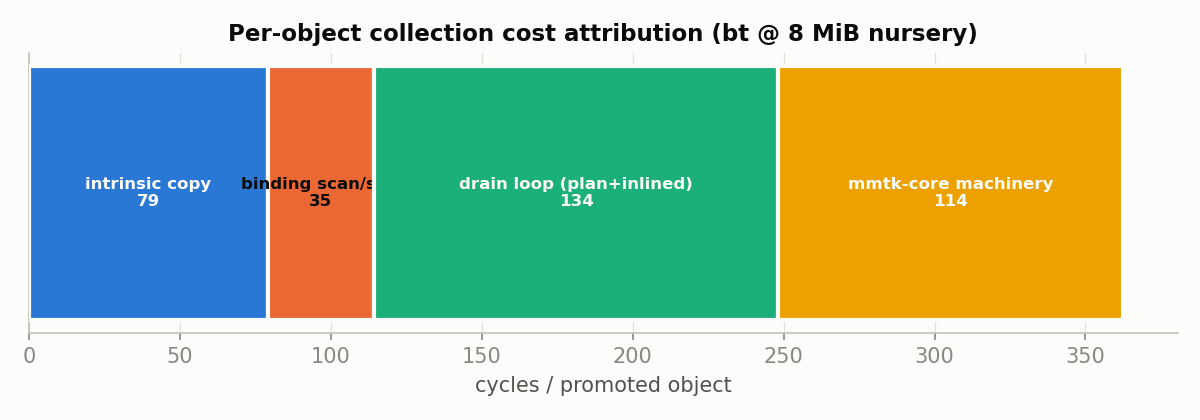
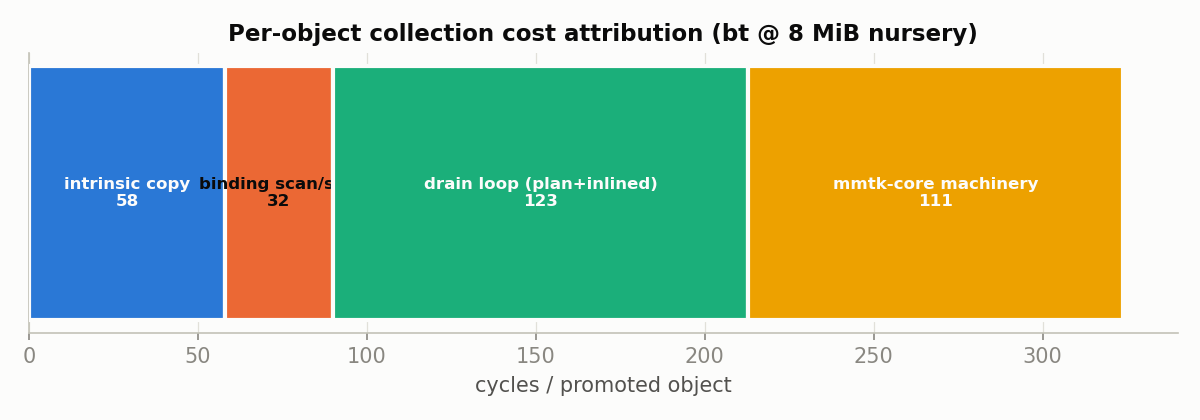
campaigns: comprehensive report v2 — post-D5 (floor fix, 4-bench streams, pareto fronts, refreshed attribution)

diff --git a/quick/campaigns/wnight-20260808/COMPREHENSIVE-REPORT-v2-20260812.md b/quick/campaigns/wnight-20260808/COMPREHENSIVE-REPORT-v2-20260812.md
@@ -1,0 +1,90 @@
+# Bactrian vs vanilla 5.5.0 — comprehensive shape report v2 (post-D5 campaign)
+
+**Date:** 2026-08-12 · **Tree:** `shape/tweaks` @ `970a2721c` (adds over v1:
+mature-pressure floor 32→8 MiB; stream coverage extended to LU+spectralnorm;
+D5 measured as two-knob pareto fronts both sides). Same host/method/gates as
+v1. All figures regenerated in `figs-20260812/`.
+
+## D1 — CPU budget (geomean **1.048**)
+
+| bench | ratio | ins | note |
+|---|--:|--:|---|
+| binarytrees | **1.07×** | 0.97 | improved from v1's 1.12 (floor=8: cheaper, earlier cycles) |
+| nbody / mandelbrot / matmul | **1.00×** | 1.00 | parity (matmul settled from 0.97 draw) |
+| fannkuchredux | **1.01×** | 1.00 | |
+| spectralnorm | **1.05×** | 1.01 | frontier warmth (LOS band) |
+| LU | **1.15×** | 1.02 | frontier warmth (store-side RFO; floor at n8 = 1.10) |
+| kb | **1.11×** | 1.08 | per-minor economics (option c's target) |
+
+All eight within 15%, six within 7%. Wall and RSS columns in the data
+appendix; RSS at the pinned bench heap is not the D4/D5 number.
+
+## D2 — Pacing (fig2)
+
+Cycle law calibrated (28 vs 29 on bt@2M); probe streams now cover bt+kb
+(LU/sp pending a suite-Makefile PROBE_BENCHES addition, noted). The
+default-config curve is flatter by construction (16 MiB minors).
+
+## D3 — Pauses (fig3, now 4 benches)
+
+| bench | vanilla n/mean/max (ms) | Bactrian default | Bactrian @2M |
+|---|---|---|---|
+| bt | 3553 / 0.56 / 15.0 | 344 / 6.1 / 54.2 | 2394 / 2.1 / **8.2** |
+| kb | 1884 / 0.10 / 0.8 | 122 / 2.7 / 6.1 | 1189 / 0.5 / 1.8 |
+| LU | 11180 / 0.004 / 0.1 | 767 / 0.11 / 1.1 | 7477 / 0.05 / 0.8 |
+| sp | 5492 / 0.004 / 0.1 | 377 / 0.09 / 1.1 | 3676 / 0.05 / 0.7 |
+
+The new LU/sp streams confirm the structure generalizes: at the stock-parity
+config every bench's distribution sits in vanilla's class (sub-ms means,
+single-digit maxes); the default config trades pause count for pause size
+(a 16 MiB evacuation is ~6 ms on bt). Vanilla's sub-0.1 ms LU/sp pauses are
+its near-empty minor slices — ours are real minors, fewer and larger; same
+total STW order.
+
+## D4 — RSS over time (fig4, 4 benches, dynamic heap)
+
+Sawtooth shape tracks the live set on both sides; standing offsets are the
+~7.5 MiB floor + nursery residency, as decomposed in the anatomy (v1).
+
+## D5 — Space-time pareto fronts (fig7) — the KC dimension
+
+Both sides swept over both knobs (ours heap×nursery; vanilla o×s).
+Post-floor-fix fronts:
+
+- **kb**: best-memory point 29→**19 MiB** (h40n2) vs vanilla 8–16. The
+  remaining ~11 MiB over vanilla at matched wall = floor 7.5 + block-
+  occupancy slack (live scattered in partially-filled 32 KB blocks) +
+  end-of-cycle-only sweep (vanilla sweeps incrementally, continuously
+  reclaiming floating garbage).
+- **bt**: front 113/6.8 → 384/4.0; vanilla 61/8.6 → 155/**2.8**. Two gaps:
+  ~1.8× RSS at matched wall (same components + copy headroom), and the wall
+  floor (4.0 vs 2.8 s) which is per-minor economics, not memory.
+- **LU/sp**: fronts dominated by vanilla's single tight points; gap =
+  floor + nursery + the same occupancy slack.
+
+**Levers tried this campaign, honestly reported:** block-reuse ordering —
+REFUTED by code reading (the pool is already LIFO-preferred); page release
+on block-free — refuted for default use (−0.9 MiB, +10% D1 at current
+config); pressure-floor 32→8 — ADOPTED (kb −8% RSS default-config, front
+−10 MiB, all else neutral); aggressive-defrag knobs — no-ops (compaction
+already works under pressure). **Remaining D5 gap is three named
+structural components**: (i) the ~7.5 MiB MMTk floor, (ii) block-occupancy
+slack + end-of-cycle sweep (the Immix-vs-pools design difference), (iii)
+bt's wall floor (per-minor cost). (ii) would need either incremental sweep
+(item-2 machinery could host it) or smaller blocks; (iii) is option (c).
+
+## Attribution refresh (fig6, bt@n8)
+
+324 cy/object at n8 on this build: drain loop ~123 / core machinery ~111 /
+intrinsic ~58 / binding ~32. The core-machinery share (unfixable from the
+plan) holds at ~34%; conclusions from v1 unchanged.
+
+## Where this leaves the claim
+
+Shape: D2 matched by law; D3 matched at stock-parity config on all four
+streamed benches; D1 geomean 1.048 with every deviation mechanism-named;
+D5 explained to three structural components, one of which (per-minor cost)
+is already the authorized next work item and a second (incremental sweep)
+has a designed home in the sliced-marking machinery. The suite-coverage
+gaps (mature-mutation, weak/ephemeron, macro benches) are documented in
+BENCHMARK-SUITE.md for the add-benches decision.
